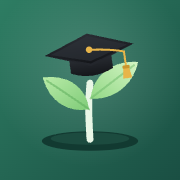
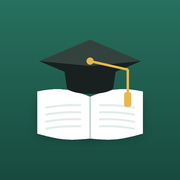
0.1

diff --git a/app.js b/app.js
@@ -1,5 +1,5 @@
 'use strict';
-/* KeimBook – läuft komplett lokal. Keine Netzwerkanfragen, keine externen Dienste. */
+/* TeachersBook – läuft komplett lokal. Keine Netzwerkanfragen, keine externen Dienste. */
 
 // Öffentlicher Lizenzschlüssel. Lizenzen können nur mit dem passenden privaten Schlüssel
 // (im Ordner "PRIVAT-nicht-hochladen") erzeugt werden.
@@ -8,7 +8,7 @@ const PUBLIC_KEY = {
   x: 'kHkzCWyGjuxGxGf_3AMH2F_MKEWEjH1hfCnBf7K1Imo',
   y: 'Fv556fMFzralLJTUqYxNxI68b9Fd4ctkLzgn07BzKj0'
 };
-const APP_VERSION = '5.12';
+const APP_VERSION = '0.1';
 
 const TYPES = {
   ma: { label: 'Mitarbeit', long: 'Mitarbeit', icon: 'spark', vals: [['+', '+', 'g'], ['~', '~', 'm'], ['-', '−', 'b']] },
@@ -433,7 +433,7 @@ function mergeData(inc) {
 // Sicherungs- bzw. Abgleich-Datei öffnen (fragt nach dem Sicherungspasswort)
 async function readBackupFile(f, title = 'Sicherung öffnen') {
   let j;
-  try { j = JSON.parse(await readText(f)); if (!j || j.app !== 'klassenbuch') throw 0; } catch { toast('Das ist keine gültige KeimBook-Datei'); return null; }
+  try { j = JSON.parse(await readText(f)); if (!j || j.app !== 'klassenbuch') throw 0; } catch { toast('Das ist keine gültige TeachersBook-Datei'); return null; }
   let inc = j.data;
   if (j.enc) {
     const pw = await secretSheet({ title, text: 'Diese Datei ist verschlüsselt. Gib das Sicherungspasswort des Geräts ein, auf dem sie erstellt wurde.', ok: 'Öffnen' });
@@ -443,7 +443,7 @@ async function readBackupFile(f, title = 'Sicherung öffnen') {
       inc = JSON.parse(TD.decode(await Crypt.open(key, { iv: fromB64(j.enc.iv), ct: fromB64(j.enc.ct) })));
     } catch { toast('Falsches Passwort'); return null; }
   }
-  if (!inc || !Array.isArray(inc.classes) || !Array.isArray(inc.entries)) { toast('Das ist keine gültige KeimBook-Datei'); return null; }
+  if (!inc || !Array.isArray(inc.classes) || !Array.isArray(inc.entries)) { toast('Das ist keine gültige TeachersBook-Datei'); return null; }
   return { inc, when: j.exportiert || '', sync: !!j.abgleich };
 }
 const mergeText = st => st.neu + st.geaendert + st.geloescht ? `${st.neu} neu, ${st.geaendert} geändert, ${st.geloescht} entfernt` : 'Beide Stände waren schon gleich';
@@ -541,7 +541,7 @@ function viewPin() {
   return `<div class="lock pinlock">
       <img class="lock-logo" src="icon-512.png" alt="">
       <h1>Gesperrt</h1>
-      <p>PIN eingeben, um KeimBook zu öffnen.</p>
+      <p>PIN eingeben, um TeachersBook zu öffnen.</p>
       <div class="pindots${pinMsg ? ' bad' : ''}" aria-label="${pinBuf.length} von ${PIN_LEN} Ziffern">${Array.from({ length: PIN_LEN }, (_, i) => `<i class="${i < pinBuf.length ? 'on' : ''}"></i>`).join('')}</div>
       <p class="err">${esc(wait > 0 ? `Zu viele Versuche – bitte ${wait} s warten.` : pinMsg)}</p>
       <div class="keypad">${['1', '2', '3', '4', '5', '6', '7', '8', '9', '', '0', '⌫'].map(k => k ? `<button class="key${k === '⌫' ? ' del' : ''}" data-a="pinKey" data-v="${k}" aria-label="${k === '⌫' ? 'Löschen' : k}">${k === '⌫' ? ICON.left : k}</button>` : '<span></span>').join('')}</div>
@@ -559,7 +559,7 @@ function viewLock() {
   return `
     <div class="lock">
       <img class="lock-logo" src="icon-512.png" alt="">
-      <h1>KeimBook</h1>
+      <h1>TeachersBook</h1>
       <p>Gib deinen persönlichen Lizenzcode ein, um die App freizuschalten.</p>
       <textarea id="lic" placeholder="Lizenzcode hier einfügen" autocapitalize="off" autocomplete="off" autocorrect="off" spellcheck="false"></textarea>
       <p class="err">${esc(lockMsg)}</p>
@@ -576,7 +576,7 @@ function setHeader({ title = '', back = null, backLabel = '', act = null } = {})
   if (back) { b.href = back; $('#backlabel').textContent = backLabel; }
   a.hidden = !act;
   if (act) { a.innerHTML = ICON[act.icon]; a.dataset.a = act.a; a.setAttribute('aria-label', act.label || ''); }
-  document.title = title && title !== 'Klassen' ? title + ' – KeimBook' : 'KeimBook';
+  document.title = title && title !== 'Klassen' ? title + ' – TeachersBook' : 'TeachersBook';
 }
 const main = $('#main');
 const onScroll = () => $('#top').classList.toggle('scrolled', main.scrollTop > 44);
@@ -1442,8 +1442,8 @@ function fwPDF(c, s, o) {
   const sig = (x, label) => { k.line([[x, y], [x + 210, y]], COL.ink3, .6); k.text(x, y + 13, label, { size: 8.5, color: COL.ink2 }); };
   sig(M, `Lehrkraft (${o.teacher})`); sig(W - M - 210, 'Erziehungsberechtigte:r – zur Kenntnis genommen');
   y += 40;
-  k.text(M, H - M - 22, 'Vorlage aus KeimBook. Bitte mit den Vorgaben deiner Schule abgleichen (Form, Fristen, Zustellung).', { size: 7.5, color: COL.ink3 });
-  return k.build(`Frühwarnung ${s.name}`, `KeimBook · ${c.name} · Frühwarnung`);
+  k.text(M, H - M - 22, 'Vorlage aus TeachersBook. Bitte mit den Vorgaben deiner Schule abgleichen (Form, Fristen, Zustellung).', { size: 7.5, color: COL.ink3 });
+  return k.build(`Frühwarnung ${s.name}`, `TeachersBook · ${c.name} · Frühwarnung`);
 }
 
 // Fehltage je Kind (mit Datum und Anmerkung) und Stundenthemen der Klasse im Zeitraum
@@ -1488,7 +1488,7 @@ function absPDF(c) {
       y += h;
     });
   }
-  return k.build(`Fehlzeiten ${c.name}`, `KeimBook · ${c.name} · Fehlzeiten`);
+  return k.build(`Fehlzeiten ${c.name}`, `TeachersBook · ${c.name} · Fehlzeiten`);
 }
 function absXLSX(c) {
   const rows = absData(c);
@@ -1574,7 +1574,7 @@ function znPDF(c, kind) {
   const dist = [1, 2, 3, 4, 5].map(g => rows.filter(r => r.zn === String(g)).length);
   y += 14; if (y > H - M - 30) { k.page(); y = M + 6; }
   k.text(M, y, `Verteilung: ${dist.map((n, i) => `${i + 1}: ${n}`).join('   ')}   ·   festgelegt: ${rows.filter(r => r.zn).length} von ${rows.length}`, { size: 9, color: COL.ink2 });
-  return k.build(`Zeugnisnoten ${c.name}`, `KeimBook · ${c.name} · Zeugnisnoten`);
+  return k.build(`Zeugnisnoten ${c.name}`, `TeachersBook · ${c.name} · Zeugnisnoten`);
 }
 function znXLSX(c, kind) {
   const rows = znRows(c, kind);
@@ -1668,7 +1668,7 @@ function testPDF(c, t, names) {
   } else {
     k.text(M, y, 'Ohne Namen – zur Weitergabe z. B. an die Schulleitung geeignet.', { size: 8, color: COL.ink3 });
   }
-  return k.build(`${names ? 'Ergebnisliste' : 'Notenspiegel'} ${t.title} ${c.name}`, `KeimBook · ${c.name} · ${t.title}`);
+  return k.build(`${names ? 'Ergebnisliste' : 'Notenspiegel'} ${t.title} ${c.name}`, `TeachersBook · ${c.name} · ${t.title}`);
 }
 function viewTests(c) {
   setHeader({ title: 'Schularbeiten', back: '#/k/' + c.id, backLabel: c.name });
@@ -1806,7 +1806,7 @@ function viewPlan() {
     <div class="section">Beim Öffnen</div>
     <div class="card"><div class="lrow static"><span class="licon">${ICON.spark}</span><span class="grow">Direkt zur aktuellen Stunde</span>
       <div class="mini-seg compact"><button class="${on ? 'on' : ''}" data-a="planOpen" data-v="1" aria-pressed="${on}">Ein</button><button class="${on ? '' : 'on'}" data-a="planOpen" data-v="0" aria-pressed="${!on}">Aus</button></div></div></div>
-    <p class="fine">Öffnest du KeimBook während einer Stunde (oder bis 10 Minuten davor), springt die App direkt in diese Klasse – Reiter Eintragen, heutiges Datum. Auf der Startseite steht oben immer die aktuelle Stunde.</p>
+    <p class="fine">Öffnest du TeachersBook während einer Stunde (oder bis 10 Minuten davor), springt die App direkt in diese Klasse – Reiter Eintragen, heutiges Datum. Auf der Startseite steht oben immer die aktuelle Stunde.</p>
     <div class="section">A/B-Wochen</div>
     <div class="card"><div class="lrow static"><span class="licon">${ICON.list}</span><span class="grow">Wechselnde Wochen</span>
       <div class="mini-seg compact"><button class="${ab ? 'on' : ''}" data-a="abSet" data-v="1" aria-pressed="${ab}">Ein</button><button class="${ab ? '' : 'on'}" data-a="abSet" data-v="0" aria-pressed="${!ab}">Aus</button></div></div>
@@ -1823,7 +1823,11 @@ function viewPlan() {
 }
 
 /* ---------- Was ist neu? (einmal nach einem Update) ---------- */
+// Versionszählung neu ab 0.1 (Pilotphase, 1.0 = offizieller Start). Ältere Neuerungen (alte Zählung 5.x) stehen in NEWS_OLD.
 const NEWS = [
+  ['0.1', ['KeimBook heißt jetzt TeachersBook – mit neuem Symbol. Deine Daten, Lizenz und die Adresse bleiben gleich.', 'Neue Versionszählung: 0.x während der Pilotphase, 1.0 beim offiziellen Start.']]
+];
+const NEWS_OLD = [
   ['5.12', ['Sport: getrennte Notenschlüssel für Messwerte, z. B. für Burschen und Mädchen – unter Bewertung & Gewichtung → Messwert antippen → „Getrennt nach Gruppe“.']],
   ['5.11', ['Ruhigere Auswahlmenüs: kein grüner Rahmen mehr um die erste Zeile.']],
   ['5.10', ['„Auf andere Klassen übernehmen“ (Bewertung & Gewichtung): Du wählst, was übernommen wird. Eigene Kategorien und Einträge der anderen Klassen bleiben erhalten.']],
@@ -1844,9 +1848,9 @@ async function newsCheck() {
   if (!license || locked || $('#dlg').open) return;
   const p = data.prefs || {};
   // Neu installiert: nichts zeigen (die Einführung erklärt alles). Bestehende Nutzung ohne Vermerk: alles seit 5.0.
-  const seen = p.seenVersion || (data.classes.length ? '5.0' : APP_VERSION);
+  const seen = p.seenVersion && verNum(p.seenVersion) < 1 ? p.seenVersion : (p.seenVersion || data.classes.length ? '0.0' : APP_VERSION);
   const list = newsSince(seen);
-  if (list.length) await modal({ title: 'Neu in KeimBook', text: `Seit deiner letzten Version (${seen}) ist dazugekommen:`, body: newsHTML(list), ok: 'Alles klar', cancel: 'Schließen' });
+  if (list.length) await modal({ title: 'Neu in TeachersBook', text: seen === '0.0' ? 'Das ist neu:' : `Seit deiner letzten Version (${seen}) ist dazugekommen:`, body: newsHTML(list), ok: 'Alles klar', cancel: 'Schließen' });
   if (p.seenVersion !== APP_VERSION) { data.prefs = Object.assign({}, data.prefs, { seenVersion: APP_VERSION }); await save(); }
 }
 // Rückmeldung per Mail – nur App-Version und Gerät, keine Schülerdaten
@@ -1854,16 +1858,16 @@ const FEEDBACK_TO = 'marcus.marzinger@keimgasse.at';
 function feedbackMail() {
   const ua = navigator.userAgent, dev = /iPad/.test(ua) ? 'iPad' : /iPhone/.test(ua) ? 'iPhone' : /Android/.test(ua) ? 'Android' : /Mac/.test(ua) ? 'Mac' : /Windows/.test(ua) ? 'Windows' : 'anderes Gerät';
   const os = (ua.match(/OS (\d+[_.]\d+)/) || ua.match(/Android (\d+(\.\d+)?)/) || [])[1] || '';
-  const body = `\n\n\n––––\nKeimBook ${APP_VERSION} · ${dev}${os ? ' ' + os.replace('_', '.') : ''}${matchMedia('(display-mode: standalone)').matches ? ' · als App installiert' : ' · im Browser'}\n(Bitte keine Namen oder Noten von Schüler:innen in die Mail schreiben.)`;
-  return `mailto:${encodeURIComponent(FEEDBACK_TO).replace('%40', '@')}?subject=${encodeURIComponent('Rückmeldung zu KeimBook ' + APP_VERSION)}&body=${encodeURIComponent(body)}`;
+  const body = `\n\n\n––––\nTeachersBook ${APP_VERSION} · ${dev}${os ? ' ' + os.replace('_', '.') : ''}${matchMedia('(display-mode: standalone)').matches ? ' · als App installiert' : ' · im Browser'}\n(Bitte keine Namen oder Noten von Schüler:innen in die Mail schreiben.)`;
+  return `mailto:${encodeURIComponent(FEEDBACK_TO).replace('%40', '@')}?subject=${encodeURIComponent('Rückmeldung zu TeachersBook ' + APP_VERSION)}&body=${encodeURIComponent(body)}`;
 }
 
 /* ---------- Hilfe: häufige Fragen (offline, durchsuchbar) ---------- */
 const HELP = [
   ['Erste Schritte', [
-    ['Wie installiere ich KeimBook am iPhone oder iPad?', 'In <b>Safari</b> die Adresse der App öffnen → unten das <b>Teilen-Symbol</b> → <b>„Zum Home-Bildschirm“</b>. Öffne KeimBook danach immer über das Symbol am Home-Bildschirm – nur dort liegen deine Daten.'],
-    ['Wie installiere ich KeimBook unter Android?', 'In <b>Chrome</b> die Adresse öffnen → oben rechts die <b>drei Punkte</b> → <b>„App installieren“</b> (oder „Zum Startbildschirm hinzufügen“).'],
-    ['Wie hole ich die Schülerliste aus WebUntis?', 'Am Computer in WebUntis: links <b>Unterricht</b> → bei der Klasse das <b>Symbol ganz rechts</b> → <b>„Schüler*innen im Unterricht“</b> → kleines <b>CSV-Symbol</b> → oben rechts den grauen Balken <b>„LessonStudentList…“</b> anklicken und speichern – am besten in iCloud Drive oder Google Drive. Dann in KeimBook: <b>„Neue Klasse“ → „Schülerliste importieren“</b>.'],
+    ['Wie installiere ich TeachersBook am iPhone oder iPad?', 'In <b>Safari</b> die Adresse der App öffnen → unten das <b>Teilen-Symbol</b> → <b>„Zum Home-Bildschirm“</b>. Öffne TeachersBook danach immer über das Symbol am Home-Bildschirm – nur dort liegen deine Daten.'],
+    ['Wie installiere ich TeachersBook unter Android?', 'In <b>Chrome</b> die Adresse öffnen → oben rechts die <b>drei Punkte</b> → <b>„App installieren“</b> (oder „Zum Startbildschirm hinzufügen“).'],
+    ['Wie hole ich die Schülerliste aus WebUntis?', 'Am Computer in WebUntis: links <b>Unterricht</b> → bei der Klasse das <b>Symbol ganz rechts</b> → <b>„Schüler*innen im Unterricht“</b> → kleines <b>CSV-Symbol</b> → oben rechts den grauen Balken <b>„LessonStudentList…“</b> anklicken und speichern – am besten in iCloud Drive oder Google Drive. Dann in TeachersBook: <b>„Neue Klasse“ → „Schülerliste importieren“</b>.'],
     ['Kann ich eine Klasse auch ohne WebUntis anlegen?', 'Ja: <b>„Neue Klasse“ → „Leere Klasse anlegen“</b>. Danach in der Klasse <b>••• → „Schüler:innen hinzufügen“</b> und die Namen eintippen – einen pro Zeile. Excel- und CSV-Listen gehen auch.'],
     ['Wie stelle ich eine Gruppe aus mehreren Klassen zusammen?', 'Am schnellsten: Die Schülerliste der Gruppe aus WebUntis importieren. Stehen darin mehrere Klassen (z. B. 7a, 7b, 7c), fragt die App: <b>„Eine Gruppe daraus machen“</b> – Namen eingeben, z. B. <b>„Biologie Labor“</b>. Neben jedem Namen steht weiterhin die Klasse. Oder: <b>„Neue Klasse“ → „Gruppe aus mehreren Klassen“</b> und Kinder aus vorhandenen Klassen anhaken.']]],
   ['Im Unterricht', [
@@ -1893,18 +1897,18 @@ const HELP = [
   ['Daten und Sicherheit', [
     ['Wo sind meine Daten gespeichert?', 'Nur <b>auf diesem Gerät</b>, im Speicher der App. Es gibt keine Cloud und kein Konto – deshalb ist die <b>Sicherung</b> so wichtig.'],
     ['Wie sichere ich meine Daten?', '<b>Zahnrad → „Sicherung exportieren“</b>. Die Datei ist mit deinem Sicherungspasswort verschlüsselt. Die App erinnert dich zweimal pro Woche.'],
-    ['Wie nehme ich meine Daten auf ein neues Gerät mit?', 'Am alten Gerät eine Sicherung exportieren (z. B. in iCloud Drive). Am neuen Gerät KeimBook installieren und freischalten → <b>Zahnrad → „Sicherung importieren“</b> → Sicherungspasswort → <b>„Alles ersetzen“</b>.'],
+    ['Wie nehme ich meine Daten auf ein neues Gerät mit?', 'Am alten Gerät eine Sicherung exportieren (z. B. in iCloud Drive). Am neuen Gerät TeachersBook installieren und freischalten → <b>Zahnrad → „Sicherung importieren“</b> → Sicherungspasswort → <b>„Alles ersetzen“</b>.'],
     ['Ich habe meinen PIN vergessen.', 'Ohne PIN lassen sich die Daten nicht öffnen – das ist der Schutz. Über <b>„PIN vergessen?“</b> wird alles gelöscht; danach importierst du deine letzte Sicherung.'],
     ['Ich habe mein Sicherungspasswort vergessen.', 'Ältere Sicherungen lassen sich dann nicht mehr öffnen. Deine Daten in der App sind nicht betroffen: Lege unter Zahnrad <b>„Passwort ändern“</b> ein neues fest und exportiere sofort eine neue Sicherung.'],
-    ['Kann ich KeimBook auf Handy und iPad gleichzeitig nutzen?', 'Ja. Zum Abgleichen: Zahnrad → <b>„Mit anderem Gerät abgleichen“</b> → am ersten Gerät <b>„Abgleich-Datei erstellen“</b>, die Datei per AirDrop, iCloud Drive oder Mail ans andere Gerät schicken und dort <b>„Abgleich-Datei einlesen“</b>. Danach bietet die App an, eine Antwort-Datei zurückzuschicken – dann sind beide gleich. Neuere Einträge gewinnen, Gelöschtes wird auf beiden Geräten gelöscht. Am einfachsten mit demselben Sicherungspasswort auf beiden Geräten.'],
-    ['Darf ich Safari-Verlauf und Websitedaten löschen?', 'Vorsicht: Das Löschen von Websitedaten (oder das Entfernen der App) kann auch die Daten von KeimBook löschen. Mach vorher immer eine Sicherung.']]],
+    ['Kann ich TeachersBook auf Handy und iPad gleichzeitig nutzen?', 'Ja. Zum Abgleichen: Zahnrad → <b>„Mit anderem Gerät abgleichen“</b> → am ersten Gerät <b>„Abgleich-Datei erstellen“</b>, die Datei per AirDrop, iCloud Drive oder Mail ans andere Gerät schicken und dort <b>„Abgleich-Datei einlesen“</b>. Danach bietet die App an, eine Antwort-Datei zurückzuschicken – dann sind beide gleich. Neuere Einträge gewinnen, Gelöschtes wird auf beiden Geräten gelöscht. Am einfachsten mit demselben Sicherungspasswort auf beiden Geräten.'],
+    ['Darf ich Safari-Verlauf und Websitedaten löschen?', 'Vorsicht: Das Löschen von Websitedaten (oder das Entfernen der App) kann auch die Daten von TeachersBook löschen. Mach vorher immer eine Sicherung.']]],
   ['Schuljahr und Löschfristen', [
     ['Wie starte ich ins neue Schuljahr?', 'Ab 1. September erscheint auf der Startseite <b>„Neues Schuljahr“</b> (auch unter Zahnrad → „Altes Schuljahr abschließen“). Archiv sichern, Klassen übernehmen (3B → 4B), alte Einträge löschen.'],
     ['Was ist die Aufbewahrungsfrist?', 'Wie lange Daten nach Schuljahresende aufbewahrt werden – <b>Vorgabe deiner Schule</b>. Einstellen unter <b>Zahnrad → Datenschutz → Frist</b>. Danach erinnert dich die App, das Archiv zu löschen.']]],
   ['Probleme', [
     ['Die App zeigt noch eine alte Version.', 'App ganz schließen (aus der App-Übersicht wischen) und <b>zweimal</b> neu öffnen. Die Versionsnummer steht ganz unten in den Einstellungen.'],
     ['Meine Lizenz ist abgelaufen.', 'Die App fragt nach einem neuen Lizenzcode. Deine Einträge bleiben auf dem Gerät – nach dem Freischalten ist alles wieder da.'],
-    ['An wen wende ich mich bei weiteren Fragen?', 'Weiter unten auf dieser Seite: <b>„Rückmeldung senden“</b> – öffnet eine Mail an das KeimBook-Team. Ausführlich ist alles im <b>Benutzerhandbuch</b> beschrieben.']]]
+    ['An wen wende ich mich bei weiteren Fragen?', 'Weiter unten auf dieser Seite: <b>„Rückmeldung senden“</b> – öffnet eine Mail an das TeachersBook-Team. Ausführlich ist alles im <b>Benutzerhandbuch</b> beschrieben.']]]
 ];
 const helpText = h => h.replace(/<[^>]+>/g, '').toLowerCase();
 // Zusätzliche Suchwörter, die so nicht im Text stehen
@@ -1935,7 +1939,7 @@ function viewHelp() {
     <div class="card mt"><a class="lrow" href="${feedbackMail()}"><span class="licon">${ICON.speech}</span><span class="grow">Rückmeldung senden<span class="lsub">Fehler gefunden, Idee, Frage? Öffnet eine Mail – ohne Schülerdaten.</span></span>${ICON.chev}</a>
       <button class="lrow" data-a="newsAll"><span class="licon">${ICON.star}</span><span class="grow">Was ist neu?</span>${ICON.chev}</button>
       <button class="lrow" data-a="introAgain"><span class="licon">${ICON.spark}</span><span class="grow">Einführung nochmal ansehen</span>${ICON.chev}</button></div>
-    <p class="fine center">KeimBook · Version ${APP_VERSION}</p>`;
+    <p class="fine center">TeachersBook · Version ${APP_VERSION}</p>`;
 }
 document.addEventListener('input', e => {
   if (e.target.id !== 'helpq') return;
@@ -2000,7 +2004,7 @@ function viewSettings() {
 
     <div class="section">Daten</div>
     <div class="card"><button class="lrow danger" data-a="wipe"><span class="licon">${ICON.trash}</span><span class="grow">Alle Daten löschen</span></button></div>
-    <p class="fine center">KeimBook · Version ${APP_VERSION}</p>`;
+    <p class="fine center">TeachersBook · Version ${APP_VERSION}</p>`;
 }
 
 // Verschlüsselte Sicherung aller Daten in eine Datei. true = gespeichert bzw. geteilt.
@@ -2047,7 +2051,7 @@ async function archiveCheck() {
   const ok = await modal({
     title: 'Archiv löschen', ok: 'Erledigt – gelöscht', cancel: 'Später',
     text: `Die Aufbewahrungsfrist für das Schuljahr ${a.from === a.y ? yl(a.y) : yl(a.from) + ' bis ' + yl(a.y)} ist abgelaufen (${plural(retainYears(), 'Jahr', 'Jahre')} nach Schuljahresende).`,
-    body: `<p class="stext">Lösche jetzt die Datei <b>„${esc(a.f)}“</b> aus iCloud Drive bzw. der Dateien-App – und auch ältere Sicherungen („KeimBook-Sicherung_…“) aus dieser Zeit. Dateien außerhalb der App kann KeimBook nicht selbst löschen.</p>`
+    body: `<p class="stext">Lösche jetzt die Datei <b>„${esc(a.f)}“</b> aus iCloud Drive bzw. der Dateien-App – und auch ältere Sicherungen („TeachersBook-Sicherung_…“ bzw. „KeimBook-Sicherung_…“) aus dieser Zeit. Dateien außerhalb der App kann TeachersBook nicht selbst löschen.</p>`
   });
   if (ok) { a.done = today(); toast('Danke – Archiv als gelöscht vermerkt'); }
   else data.prefs = Object.assign({}, data.prefs, { archSnooze: shiftDay(today(), 7) });
@@ -2095,10 +2099,10 @@ async function yearWizard() {
       <li><b>Alte Daten löschen</b> – ${esc(plural(o.entries, 'Eintrag', 'Einträge'))}${o.talks ? `, ${esc(plural(o.talks, 'Gespräch bzw. Frühwarnung', 'Gespräche bzw. Frühwarnungen'))}` : ''}${o.days ? ` und ${esc(plural(o.days, 'Stundenthema', 'Stundenthemen'))}` : ''} vor dem 1. September werden vom Gerät entfernt.</li></ol>`
   })) return;
   // 2 · Archiv
-  const arch = await modal({ title: 'Archiv sichern', text: `Die Datei „KeimBook-Archiv_${fileLabel}.json“ ist mit deinem Sicherungspasswort verschlüsselt. Aufbewahrungsfrist: ${plural(retainYears(), 'Jahr', 'Jahre')} nach Schuljahresende – danach erinnert dich die App ans Löschen.`, ok: 'Archiv sichern' });
+  const arch = await modal({ title: 'Archiv sichern', text: `Die Datei „TeachersBook-Archiv_${fileLabel}.json“ ist mit deinem Sicherungspasswort verschlüsselt. Aufbewahrungsfrist: ${plural(retainYears(), 'Jahr', 'Jahre')} nach Schuljahresende – danach erinnert dich die App ans Löschen.`, ok: 'Archiv sichern' });
   if (!arch) return;
-  if (!await writeBackup(`KeimBook-Archiv_${fileLabel}.json`)) return toast('Abgebrochen – ohne Archiv wird nichts gelöscht');
-  noteArchive(`KeimBook-Archiv_${fileLabel}.json`, o.first, o.last); await save();
+  if (!await writeBackup(`TeachersBook-Archiv_${fileLabel}.json`)) return toast('Abgebrochen – ohne Archiv wird nichts gelöscht');
+  noteArchive(`TeachersBook-Archiv_${fileLabel}.json`, o.first, o.last); await save();
   // 3 · Klassen
   const cls = [...data.classes].sort(byName);
   const plan = cls.length ? await modal({
@@ -2157,7 +2161,7 @@ const backupWhen = () => backup.last ? relDay(isoOf(backup.last)) : 'noch nie';
 async function introCheck(force) {
   if (!license || locked || $('#dlg').open || (!force && (data.classes.length || (data.prefs && data.prefs.introDone)))) return;
   const pages = [
-    ['Willkommen bei KeimBook', 'Dein Klassenbuch für Mitarbeit, Wiederholungen, Hausübungen und Anwesenheit – direkt im Unterricht, auch ohne Internet.', 'Weiter'],
+    ['Willkommen bei TeachersBook', 'Dein Klassenbuch für Mitarbeit, Wiederholungen, Hausübungen und Anwesenheit – direkt im Unterricht, auch ohne Internet.', 'Weiter'],
     ['1 · Klasse anlegen', 'Tippe auf „Schülerliste importieren“ und wähle die Datei aus WebUntis. Die Klassen werden automatisch angelegt. Oder lege eine Klasse selbst an.', 'Weiter'],
     ['2 · Eintragen', 'Klasse öffnen, oben die Kategorie wählen und je Kind auf den Wert tippen. Vertippt? „Rückgängig“ in der Meldung unten. Im Reiter „Übersicht“ siehst du Noten, Trends und den Notenvorschlag.', 'Weiter'],
     ['3 · Sicher und privat', 'Alle Daten bleiben nur auf diesem Gerät. Schalte unter dem Zahnrad die PIN-Sperre ein – dann ist alles verschlüsselt. Die App erinnert dich zweimal pro Woche an eine Sicherung. Fragen? Unten auf der Startseite findest du die Hilfe.', 'Los geht’s']
@@ -2481,7 +2485,7 @@ function pdfKit() {
       });
       objs[catalog - 1] = `<< /Type /Catalog /Pages ${pagesId} 0 R >>`;
       objs[pagesId - 1] = `<< /Type /Pages /Kids [${kids.map(id => id + ' 0 R').join(' ')}] /Count ${kids.length} >>`;
-      const info = add(`<< /Title ${pdfStr(title)} /Producer (KeimBook) >>`);
+      const info = add(`<< /Title ${pdfStr(title)} /Producer (TeachersBook) >>`);
       let out = '%PDF-1.4\n%\xE2\xE3\xCF\xD3\n';
       const offs = [];
       objs.forEach((o, i) => { offs.push(out.length); out += `${i + 1} 0 obj\n${o}\nendobj\n`; });
@@ -2541,7 +2545,7 @@ function classTrendsPDF(c, rows) {
   }
   const n = rows.length, up = rows.filter(r => r.tr.dir === 'up').length, down = rows.filter(r => r.tr.dir === 'down').length, risk = rows.filter(r => isRisk(r.st)).length;
   k.text(M, Math.min(y + 24, H - M - 30), `${n} Schüler:innen · ${up} verbessern sich · ${down} verschlechtern sich · ${risk} mit Gesamtnote über 4`, { size: 9, color: COL.ink2 });
-  return k.build('Trends ' + c.name, `KeimBook · ${c.name}`);
+  return k.build('Trends ' + c.name, `TeachersBook · ${c.name}`);
 }
 
 /* ---------- Export einer einzelnen Kategorie ---------- */
@@ -2689,7 +2693,7 @@ function catPDF(c, keys) {
   if (multi) catOverview(kit, c, keys);
   keys.forEach((k, i) => { if (multi) kit.page(); catSection(kit, c, k, multi ? `KATEGORIE ${i + 1} VON ${keys.length}` : 'KATEGORIE'); });
   const name = multi ? 'Kategorien' : typeOf(c, keys[0]).label;
-  return kit.build(`${name} ${c.name}`, `KeimBook · ${c.name} · ${name}`);
+  return kit.build(`${name} ${c.name}`, `TeachersBook · ${c.name} · ${name}`);
 }
 
 function studentTrendPDF(c, s) {
@@ -2794,7 +2798,7 @@ function studentTrendPDF(c, s) {
       k.line([[M, y + h], [W - M, y + h]], COL.line, .5); y += h;
     });
   }
-  return k.build(`Trend ${s.name}`, `KeimBook · ${c.name} · ${s.name}`);
+  return k.build(`Trend ${s.name}`, `TeachersBook · ${c.name} · ${s.name}`);
 }
 
 function parseCSV(text) {
@@ -3093,7 +3097,7 @@ const actions = {
     data.plan = []; await save(); render();
   },
   async introAgain() { await introCheck(true); },
-  newsAll() { modal({ title: 'Was ist neu?', body: newsHTML(NEWS), ok: 'Schließen', cancel: 'Zurück' }); },
+  newsAll() { modal({ title: 'Was ist neu?', body: newsHTML(NEWS) + `<div class="nv">Frühere Versionen (als KeimBook)</div>` + newsHTML(NEWS_OLD.map(([v, l]) => [v + ' (alt)', l])), ok: 'Schließen', cancel: 'Zurück' }); },
   setPeriod(d) { ui.period = d.v; saveUi(); render(); },
   setLayout(d) { ui.layout = d.v; ui.seatEdit = false; ui.seatSel = null; saveUi(); render(); },
   seatEditToggle() { ui.seatEdit = !ui.seatEdit; ui.seatSel = null; const c = currentClass(); if (c && !ui.seatEdit) save(); render(); },
@@ -3794,7 +3798,7 @@ const actions = {
         e.w ? fmtW(e.w) : '1', kindOf(c, e.t) === 'text' ? '' : noteFull(c, e)]));
     saveFile(`Einträge_${safeName(c.name)}_${periodFile()}.csv`, 'text/csv', toCSV(rows));
   },
-  async exportBackup() { await writeBackup(`KeimBook-Sicherung_${today()}.json`); },
+  async exportBackup() { await writeBackup(`TeachersBook-Sicherung_${today()}.json`); },
   async syncMenu() {
     const k = await modal({ title: 'Zwei Geräte abgleichen', text: 'Z. B. Handy und iPad – ohne Cloud. Ein Gerät erstellt eine verschlüsselte Abgleich-Datei, das andere liest sie ein. Neuere Einträge gewinnen, Gelöschtes wird auch am anderen Gerät gelöscht. Tipp: auf beiden Geräten dasselbe Sicherungspasswort verwenden.',
       options: [['out', 'Abgleich-Datei erstellen (Schritt 1)'], ['in', 'Abgleich-Datei einlesen (Schritt 2)']], cancel: 'Schließen' });
@@ -3802,7 +3806,7 @@ const actions = {
     if (k === 'in') return actions.syncIn();
   },
   async syncOut() {
-    if (await writeBackup(`KeimBook-Abgleich_${today()}_${hm(new Date()).replace(':', '')}.json`, { abgleich: true }))
+    if (await writeBackup(`TeachersBook-Abgleich_${today()}_${hm(new Date()).replace(':', '')}.json`, { abgleich: true }))
       modal({ title: 'Abgleich-Datei erstellt', text: 'Bring die Datei aufs andere Gerät (AirDrop, iCloud Drive, Mail an dich selbst …) und lies sie dort ein: Zahnrad → „Mit anderem Gerät abgleichen“ → „Abgleich-Datei einlesen“.', ok: 'Verstanden', cancel: 'Schließen' });
   },
   async syncIn() {

diff --git a/index.html b/index.html
@@ -10,8 +10,8 @@
 <meta name="apple-mobile-web-app-capable" content="yes">
 <meta name="mobile-web-app-capable" content="yes">
 <meta name="apple-mobile-web-app-status-bar-style" content="default">
-<meta name="apple-mobile-web-app-title" content="KeimBook">
-<title>KeimBook</title>
+<meta name="apple-mobile-web-app-title" content="TeachersBook">
+<title>TeachersBook</title>
 <link rel="manifest" href="manifest.webmanifest">
 <link rel="icon" href="icon-192.png">
 <link rel="apple-touch-icon" href="apple-touch-icon.png">

diff --git a/sw.js b/sw.js
@@ -1,6 +1,6 @@
 // Offline-Cache. Bei jeder neuen Version VERSION erhöhen, damit Geräte das Update laden.
 // Eigener Präfix „keim-“: Die alte Adresse …/klassenbuch/ liegt auf derselben Domain und räumt nur ihre „kb-“-Caches auf.
-const VERSION = 'keim-v46';
+const VERSION = 'keim-v47';
 const FILES = [
   './', './index.html', './app.js', './style.css', './manifest.webmanifest',
   './icon-192.png', './icon-512.png', './apple-touch-icon.png'

diff --git a/README.md b/README.md
@@ -1,4 +1,4 @@
-# KeimBook
+# TeachersBook
 
 Digitales Klassenbuch für Lehrkräfte – Mitarbeit, Wiederholungen, Hausübungen, Anwesenheit und Verhalten im Unterricht festhalten.
 
